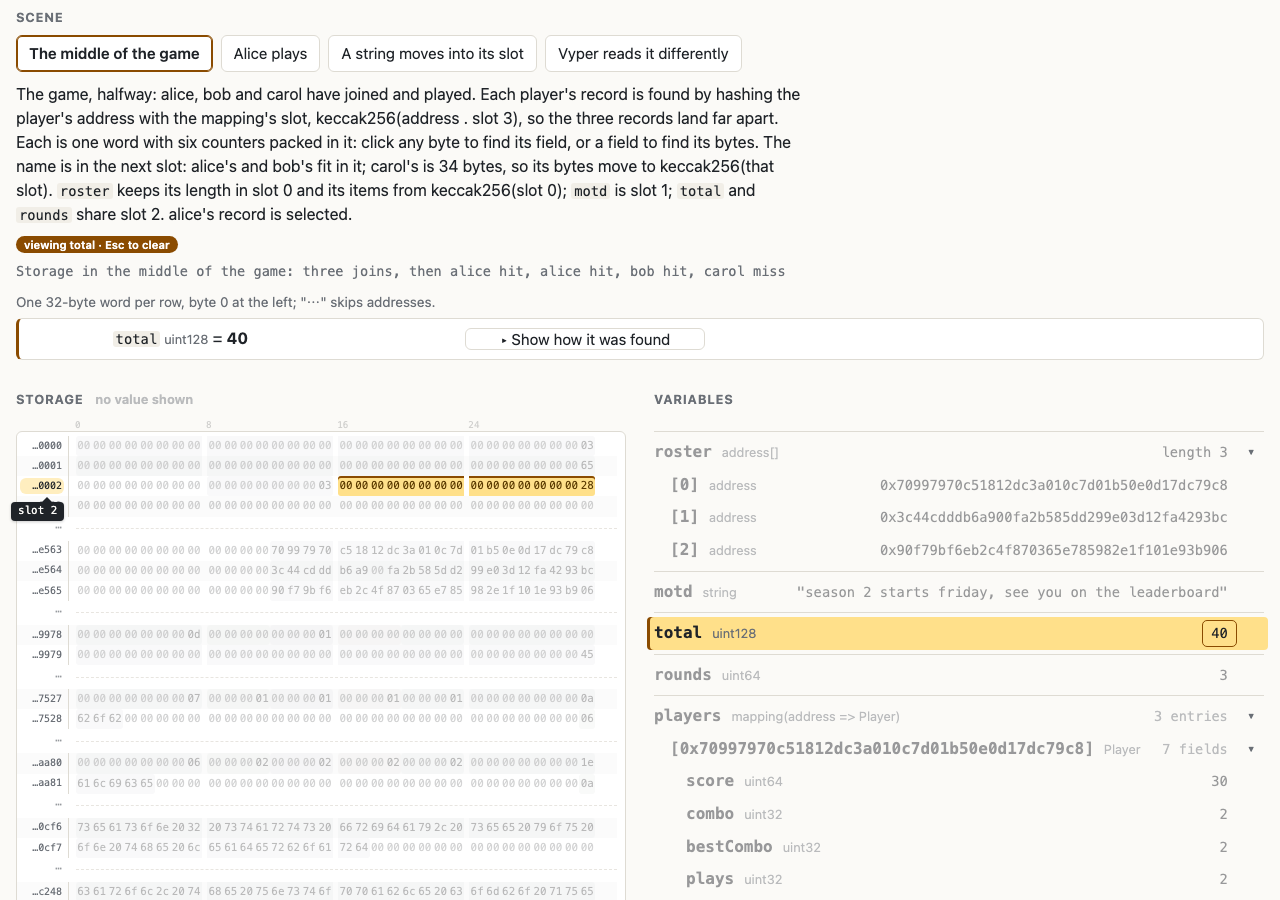
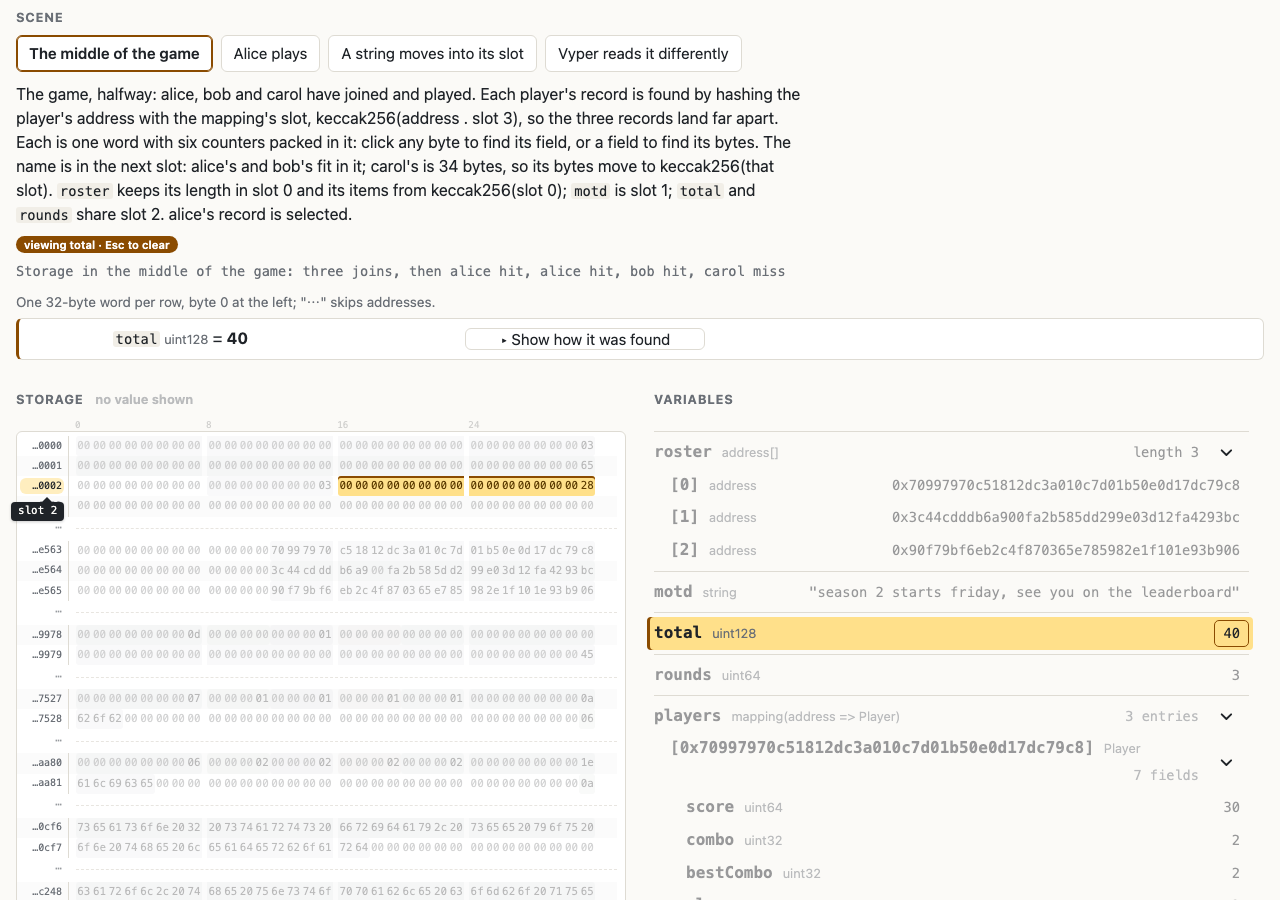
Inspector: the chevron plain at rest (an SVG, about 1em, a 28 px target), boxed on hover and focus, centred on its row, its edge on the values' edge; one row geometry in every state; the tree's scrollbar room kept; inner groups keep their state; a child's gutter selects the child

diff --git a/demos/inspector/style.css b/demos/inspector/style.css
@@ -1111,6 +1111,9 @@ html { overflow-anchor: none; }
 #contract-src .line.decl { background: var(--mark); border-radius: 2px; }
 /* the variables: a box as tall as the storage dump, scrolled inside */
 .scols #tree { overflow-y: auto; overflow-x: hidden; box-sizing: border-box;
+  /* (the scrollbar's room kept: the width never changes when it comes
+     and goes) */
+  scrollbar-gutter: stable;
   /* room inside the scrolling box for the bars and bands that reach out
      of a row (the selection's bar, 7px), without moving the rows */
   margin: 0 -8px 0 -10px; padding-left: 10px; padding-right: 8px; }
@@ -1119,16 +1122,33 @@ html { overflow-anchor: none; }
   Menlo, monospace; font-weight: 600; }
 .rcap code.id, .rshort code.id { background: none; padding: 0; border: 0;
   font-size: 0.95em; }
-/* a group's chevron: at the right end of its row, one column for all
-   (every row keeps the room, so the values align) */
-#tree .row { padding-right: 1.7em; }
-#tree li > .chev { position: absolute; right: 0; top: 2px; width: 1.5em;
-  height: 1.5em; padding: 0; border: 0; border-radius: 4px; background: none;
-  color: var(--muted); font: inherit; font-size: 1.1rem; line-height: 1.5em;
-  cursor: pointer; z-index: 1; }
-#tree li.top > .chev { top: 6px; }
-#tree li > .chev:hover { color: var(--fg); }
-#tree li > .chev:focus-visible { outline: 2px solid var(--accent); }
+/* a group's chevron: plain at rest, at the right end of its row, its
+   box's right edge on the values' right edge (inside their 8px padding
+   and border); a box behind it only on hover, focus and press, in room
+   kept for it (nothing moves). The group's summary moves in to make
+   room; leaf rows keep theirs. */
+#tree li:has(> .chev) > .row { padding-right: calc(28px + 13px); }
+/* (the row and its chevron share one grid cell: the chevron centred on
+   the row's height, whatever it is; the members below) */
+#tree li:has(> .chev) { display: grid; grid-template-columns: minmax(0, 1fr); }
+#tree li:has(> .chev) > .row { grid-area: 1 / 1; }
+#tree li:has(> .chev) > ul, #tree li:has(> .chev) > .empty { grid-column: 1; }
+#tree li > .chev { grid-area: 1 / 1; justify-self: end; align-self: center;
+  margin-right: 9px; width: 28px;
+  height: 28px; padding: 0; box-sizing: border-box;
+  border: 1px solid transparent; border-radius: 6px; background: none;
+  color: var(--fg); font-size: 1.05rem; cursor: pointer; z-index: 1;
+  display: grid; place-items: center; }
+#tree li > .chev svg { width: 1em; height: 1em; transition: transform 0.15s; }
+#tree li > .chev[aria-expanded="false"] svg { transform: rotate(-90deg); }
+#tree li > .chev:is(:hover, :focus-visible, :active) {
+  background: var(--panel); border-color: var(--line); }
+#tree li > .chev:active { border-color: var(--accent); }
+#tree li > .chev:focus-visible { outline: 2px solid var(--accent);
+  outline-offset: 1px; }
+@media (prefers-reduced-motion: reduce) {
+  #tree li > .chev svg { transition: none; }
+}
 #tree li.collapsed > ul { display: none; }
 .val.sum { color: var(--muted); font-size: 0.85rem; }
 /* a block of tree rows in one colour: the item, key line and parts */

diff --git a/demos/inspector/main.js b/demos/inspector/main.js
@@ -111,9 +111,10 @@ function row(node, top) {
     val = `<span class="val sum">${n} ${words[n === 1 ? 0 : 1]}</span>`;
   }
   const shut = group && !!collapsed[current.id]?.has(node.path);
-  const chev = group ? `<button type="button" class="chev" aria-expanded="${
-    !shut}" aria-label="${shut ? "Expand" : "Collapse"} ${esc(node.label)}">${
-    shut ? "▸" : "▾"}</button>` : "";
+  // (tabindex: Safari leaves buttons out of the Tab order otherwise)
+  const chev = group ? `<button type="button" class="chev" tabindex="0"` +
+    ` aria-expanded="${!shut}" aria-label="${shut ? "Expand" : "Collapse"} ${
+      esc(node.label)}">${CHEV}</button>` : "";
   const kids = node.children?.length
     ? `<ul>${node.children.map((c) => row(c)).join("")}</ul>`
     : node.children && !node.before && !node.after
@@ -128,6 +129,10 @@ function row(node, top) {
     `<span class="type">${esc(tname)}</span>${val}</div>${chev}${kids}</li>`;
 }
 
+// a chevron, pointing down (open); turned to point right when closed
+const CHEV = '<svg viewBox="0 0 16 16" aria-hidden="true"><path ' +
+  'd="M3.5 6 8 10.5 12.5 6" fill="none" stroke="currentColor" ' +
+  'stroke-width="1.8" stroke-linecap="round" stroke-linejoin="round"/></svg>';
 // The groups the reader has collapsed, by scene (all open by default;
 // kept while on the page)
 const collapsed = {};
@@ -142,7 +147,6 @@ function setOpen(li, open, animate = true) {
   btn.setAttribute("aria-expanded", String(open));
   btn.setAttribute("aria-label", `${open ? "Collapse" : "Expand"} ${
     li.querySelector(":scope > .row .name").textContent}`);
-  btn.textContent = open ? "▾" : "▸";
   const ul = li.querySelector(":scope > ul");
   const done = () => {
     li.classList.toggle("collapsed", !open);
@@ -1702,6 +1706,18 @@ function act(el, keys = false) {
     const p = blockOf(row.parentElement.dataset.path);
     hover = null;
     return choose(p === chosen ? null : p), true;
+  }
+  // a slot's address, inside a selected composite: the child whose
+  // block holds all of the slot's values
+  const addr = !keys && el.closest("#panel .wrow[data-slot] > .addr");
+  if (addr && chosen) {
+    const ts = new Set([...addr.parentElement.querySelectorAll(
+      ".b[data-owners]")].map((c) => blockOf(ownerRow(c))));
+    const [t] = ts;
+    if (ts.size === 1 && t && t !== chosen) {
+      hover = null;
+      return choose(t), true;
+    }
   }
   // a byte selects its value, or, when it is the selected one's, clears
   const cell = el.closest("#panel .b[data-g]");
